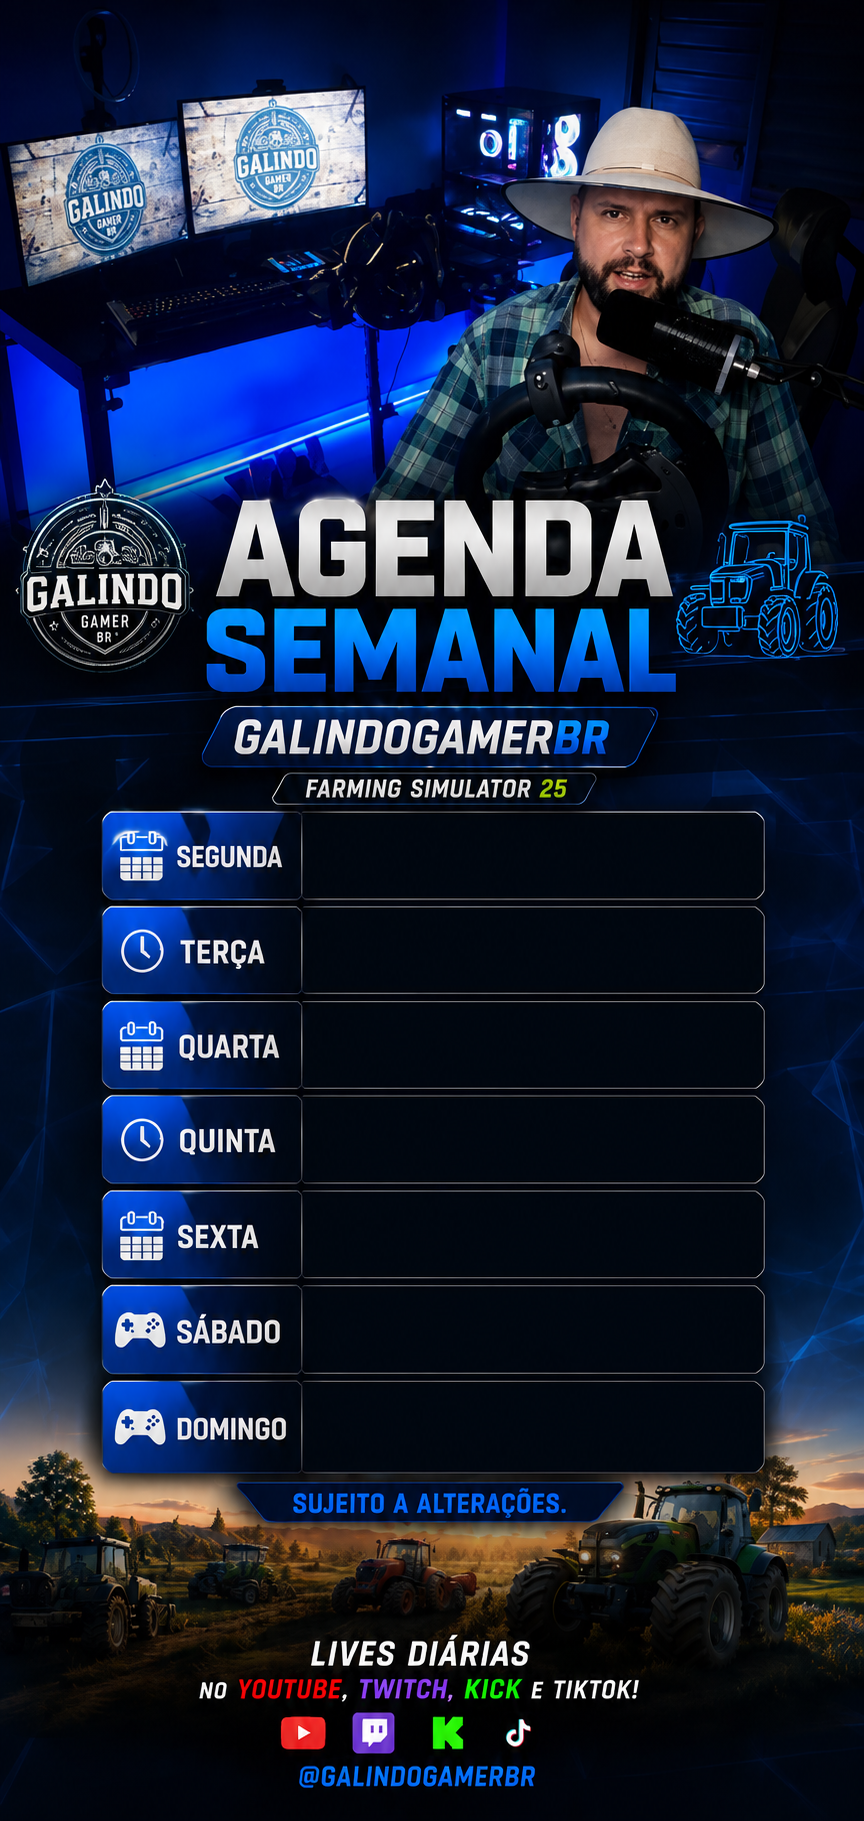
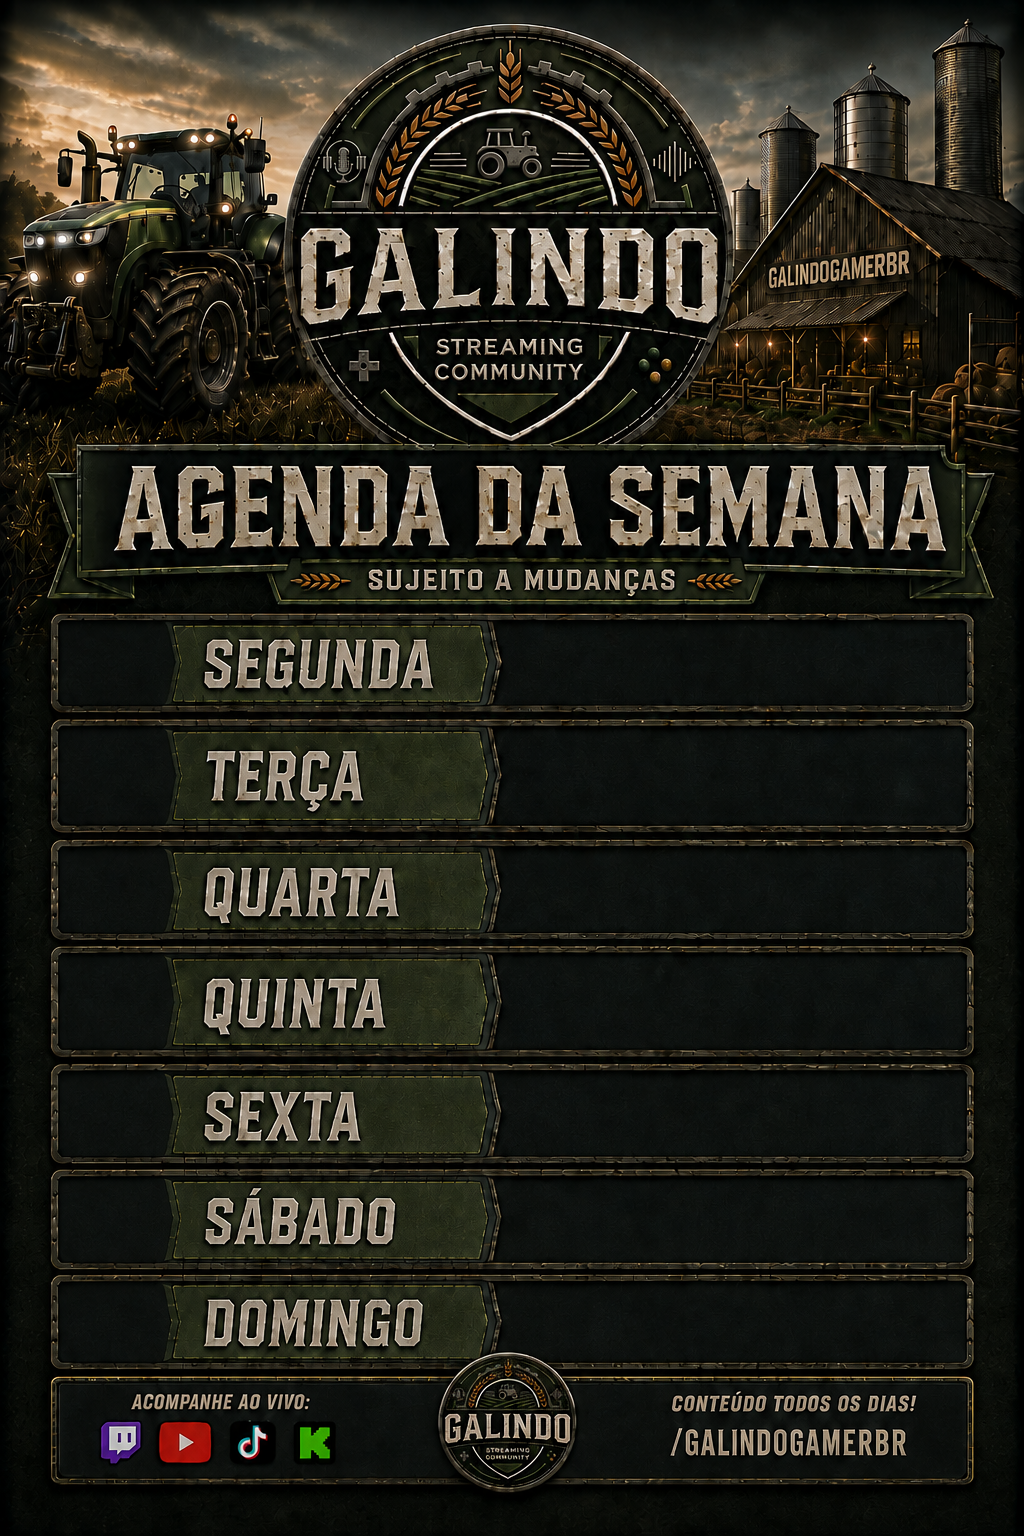
Redesenha a exportação de imagem da programação (nova arte, ícones, layout)
- Novo template de fundo (schedule-export-template.png) sem o selo quadrado
  fixo à esquerda de cada linha.
- Selo dinâmico (calendário/X) e ícones de horário (sol/pôr-do-sol) via
  <img> — testado que emoji e <svg>/<div> puramente decorativo não
  rasterizam de forma confiável no PNG exportado pelo html-to-image; <img>
  é o único tipo confirmado.
- Ícone sol/pôr-do-sol decidido pelo horário real do bloco (antes/depois
  do meio-dia), não pela posição no dia.
- Dias com dois horários em duas colunas lado a lado; um único horário
  numa linha só; OFF-LINE com texto maior.
- Ajustes finos de posição por linha (translateY) pra alinhar com a arte.
- blockIcon.ts extraído como util compartilhável.
- Botão "Baixar imagem" com ícone de download (sem seta) e w-full.

diff --git a/src/components/shared/ScheduleExportTemplate.tsx b/src/components/shared/ScheduleExportTemplate.tsx
@@ -1,10 +1,11 @@
 import { forwardRef } from 'react'
 import { fontStack } from '../../styles/theme'
 import type { ScheduleBlock } from '../../lib/api/schedule'
+import { blockIconKind, type BlockIconKind } from '../../lib/blockIcon'
 
 // Resolução nativa do template de fundo (public/assets/schedule-export-template.png).
-const IMG_W = 864
-const IMG_H = 1821
+const IMG_W = 1024
+const IMG_H = 1536
 
 const FULL_DAY_NAMES: Record<number, string> = {
   1: 'SEGUNDA',
@@ -16,29 +17,50 @@ const FULL_DAY_NAMES: Record<number, string> = {
   7: 'DOMINGO',
 }
 
-// Posição de cada slot de horário (em px, na resolução nativa 864x1821) —
-// medida via varredura de pixel nas bordas dos cards do template, não é
-// um chute visual. Ver conversa/memória do projeto pra reproduzir se o
-// template.png for atualizado.
-const DAY_ROWS: Array<{ day: number; top: number; height: number }> = [
-  { day: 1, top: 813, height: 84 },
-  { day: 2, top: 908, height: 83 },
-  { day: 3, top: 1003, height: 83 },
-  { day: 4, top: 1097, height: 82 },
-  { day: 5, top: 1192, height: 84 },
-  { day: 6, top: 1287, height: 84 },
-  { day: 7, top: 1382, height: 88 },
+// Posição de cada slot de horário (em px, na resolução nativa 1024x1536) —
+// medida via varredura de pixel nas bordas dos cards do template (v3, sem
+// o selo quadrado à esquerda — removido da arte), não é um chute visual.
+// As linhas de TERÇA e QUINTA já nascem mais altas na própria arte
+// (108/104px vs ~85-92px das demais) porque são os dois dias com dois
+// blocos de horário. Ver conversa/memória do projeto pra reproduzir se o
+// template.png for atualizado de novo.
+const DAY_ROWS: Array<{ day: number; top: number; height: number; nudge?: number }> = [
+  { day: 1, top: 615, height: 92 },
+  { day: 2, top: 720, height: 108 },
+  { day: 3, top: 844, height: 91 },
+  { day: 4, top: 945, height: 104 },
+  { day: 5, top: 1068, height: 85 },
+  { day: 6, top: 1175, height: 86, nudge: 1 },
+  { day: 7, top: 1275, height: 88, nudge: 2 },
 ]
 
-const BOX_LEFT = 314
-const BOX_RIGHT = 758
+const BOX_LEFT = 506
+const BOX_RIGHT = 955
 
-// Rótulo do bloco pela ordem cronológica no dia — convenção do design
-// original (1º horário = "LIVE", 2º = "TARDE"), não vem dos dados.
-const BLOCK_LABELS = ['LIVE', 'TARDE', 'NOITE']
-
-const LABEL_BLUE = '#5A8FF0'
 const OFFLINE_GREEN = '#8FBF1F'
+const ICON_SIZE = 32
+const ICON_GAP = 10
+
+// Selo maior à esquerda do nome do dia (na faixa em branco que sobrou depois
+// que o selo quadrado saiu da arte de fundo) — calendário quando o dia tem
+// programação, X quando é OFF-LINE.
+const DAY_ICON_LEFT = 46
+const DAY_ICON_SIZE = 128
+
+// Ícones dos ícones do Flaticon (Magnific — "sun"/"sunset" packs, indicados
+// pelo Pedro) recoloridos pra dourado da marca e salvos como PNG comuns em
+// public/assets — <img> é o único tipo de elemento confirmado confiável com
+// html-to-image nesse projeto (emoji e <svg>/<div> decorativo sumiam no PNG
+// exportado; os selos de dia antigos usavam <img> e sempre apareceram certo).
+function TimeIcon({ kind }: { kind: BlockIconKind }) {
+  return (
+    <img
+      src={kind === 'sun' ? '/assets/schedule-icon-sun.png' : '/assets/schedule-icon-sunset.png'}
+      alt=""
+      style={{ width: ICON_SIZE, height: ICON_SIZE, flexShrink: 0 }}
+    />
+  )
+}
 
 type ScheduleExportTemplateProps = {
   blocks: ScheduleBlock[]
@@ -64,49 +86,70 @@ export const ScheduleExportTemplate = forwardRef<HTMLDivElement, ScheduleExportT
         fontFamily: fontStack('body'),
       }}
     >
-      {DAY_ROWS.map(({ day, top, height }) => {
+      {DAY_ROWS.map(({ day, top, height, nudge }) => {
         const dayBlocks = blocks
           .filter((b) => b.dayOfWeek === day)
           .slice()
           .sort((a, b) => a.startTime.localeCompare(b.startTime))
+        const isOffline = dayBlocks.length === 0
 
         return (
-          <div
-            key={day}
-            aria-label={FULL_DAY_NAMES[day]}
-            style={{
-              position: 'absolute',
-              left: BOX_LEFT,
-              top,
-              width: BOX_RIGHT - BOX_LEFT,
-              height,
-              display: 'flex',
-              flexDirection: 'column',
-              justifyContent: 'center',
-              gap: 4,
-              paddingLeft: 14,
-              boxSizing: 'border-box',
-            }}
-          >
-            {dayBlocks.length === 0 ? (
-              <>
-                <div style={{ fontSize: 22, fontWeight: 800, color: OFFLINE_GREEN, letterSpacing: 1 }}>OFF-LINE</div>
-                <div style={{ fontSize: 15, fontWeight: 600, color: '#f3f5f7', lineHeight: 1.35 }}>
-                  DESCANSO E PREPARAÇÃO
-                  <br />
-                  PARA NOVAS LIVES!
+          <div key={day} style={{ transform: nudge ? `translateY(${nudge}px)` : undefined }}>
+            <img
+              src={isOffline ? '/assets/schedule-icon-offline.png' : '/assets/schedule-icon-calendar.png'}
+              alt=""
+              style={{
+                position: 'absolute',
+                left: DAY_ICON_LEFT,
+                top: top + (height - DAY_ICON_SIZE) / 2,
+                width: DAY_ICON_SIZE,
+                height: DAY_ICON_SIZE,
+              }}
+            />
+            <div
+              aria-label={FULL_DAY_NAMES[day]}
+              style={{
+                position: 'absolute',
+                left: BOX_LEFT,
+                top,
+                width: BOX_RIGHT - BOX_LEFT,
+                height,
+                display: 'flex',
+                alignItems: 'center',
+                paddingLeft: 14,
+                paddingRight: 10,
+                boxSizing: 'border-box',
+              }}
+            >
+              {isOffline ? (
+                <div style={{ display: 'flex', alignItems: 'center', gap: 30 }}>
+                  <div style={{ fontSize: 24, fontWeight: 800, color: OFFLINE_GREEN, letterSpacing: 1, flexShrink: 0 }}>OFF-LINE</div>
+                  <div style={{ fontSize: 20, fontWeight: 600, color: '#f3f5f7', lineHeight: 1.3 }}>
+                    Descanso e preparação
+                    <br />
+                    para novas lives!
+                  </div>
                 </div>
-              </>
-            ) : (
-              dayBlocks.map((block, index) => (
-                <div key={index} style={{ fontSize: 19, fontWeight: 700, letterSpacing: 0.3 }}>
-                  <span style={{ color: LABEL_BLUE }}>{BLOCK_LABELS[index] ?? BLOCK_LABELS[BLOCK_LABELS.length - 1]}</span>{' '}
-                  <span style={{ color: '#f3f5f7' }}>
-                    DAS {block.startTime} ÀS {block.endTime}
+              ) : dayBlocks.length === 1 ? (
+                <div style={{ display: 'flex', alignItems: 'center', gap: ICON_GAP }}>
+                  <TimeIcon kind={blockIconKind(dayBlocks[0].startTime)} />
+                  <span style={{ fontSize: 22, fontWeight: 1000, letterSpacing: 0.1, color: '#f3f5f7', whiteSpace: 'nowrap' }}>
+                    {dayBlocks[0].startTime} às {dayBlocks[0].endTime}
                   </span>
                 </div>
-              ))
-            )}
+              ) : (
+                <div style={{ display: 'flex', alignItems: 'center', gap: 10 }}>
+                  {dayBlocks.map((block, index) => (
+                    <div key={index} style={{ display: 'flex', alignItems: 'center', gap: ICON_GAP }}>
+                      <TimeIcon kind={blockIconKind(block.startTime)} />
+                      <span style={{ fontSize: 22, fontWeight: 1000, letterSpacing: 0.1, color: '#f3f5f7', whiteSpace: 'nowrap' }}>
+                        {block.startTime} às {block.endTime}
+                      </span>
+                    </div>
+                  ))}
+                </div>
+              )}
+            </div>
           </div>
         )
       })}

diff --git a/src/components/shared/PublicScheduleExportButton.tsx b/src/components/shared/PublicScheduleExportButton.tsx
@@ -5,6 +5,16 @@ import { exportScheduleImage } from '../../lib/exportScheduleImage'
 import { getPublicSchedule } from '../../lib/api/schedule'
 import type { ScheduleBlock } from '../../lib/api/schedule'
 
+function DownloadIcon() {
+  return (
+    <svg width="16" height="16" viewBox="0 0 24 24" fill="none" stroke="currentColor" strokeWidth="2" strokeLinecap="round" strokeLinejoin="round" aria-hidden="true">
+      <path d="M12 3v12" />
+      <path d="M7 10l5 5 5-5" />
+      <path d="M5 21h14" />
+    </svg>
+  )
+}
+
 // Versão pública do botão de exportação — busca a programação publicada
 // na hora do clique, em vez de receber blocos já carregados (como o
 // editor admin faz).
@@ -30,8 +40,9 @@ export function PublicScheduleExportButton() {
 
   return (
     <>
-      <Button variant="default" onClick={handleExport} disabled={exporting}>
-        {exporting ? 'Gerando imagem...' : 'Baixar imagem da programação →'}
+      <Button variant="default" className="w-full" onClick={handleExport} disabled={exporting}>
+        {!exporting && <DownloadIcon />}
+        {exporting ? 'Gerando imagem...' : 'Baixar imagem da programação'}
       </Button>
       <div style={{ position: 'fixed', top: 0, left: -9999, pointerEvents: 'none' }} aria-hidden="true">
         <ScheduleExportTemplate ref={templateRef} blocks={blocks} />

diff --git a/src/lib/blockIcon.ts b/src/lib/blockIcon.ts
@@ -1,0 +1,9 @@
+export type BlockIconKind = 'sun' | 'sunset'
+
+// Sol se o bloco começa antes do meio-dia, pôr-do-sol caso contrário —
+// decidido pelo horário real do bloco, não pela posição/ordem dele no dia.
+// Usado só na exportação de imagem (ScheduleExportTemplate) — o site
+// (ScheduleTabs) não usa ícones aqui.
+export function blockIconKind(startTime: string): BlockIconKind {
+  return startTime < '12:00' ? 'sun' : 'sunset'
+}
